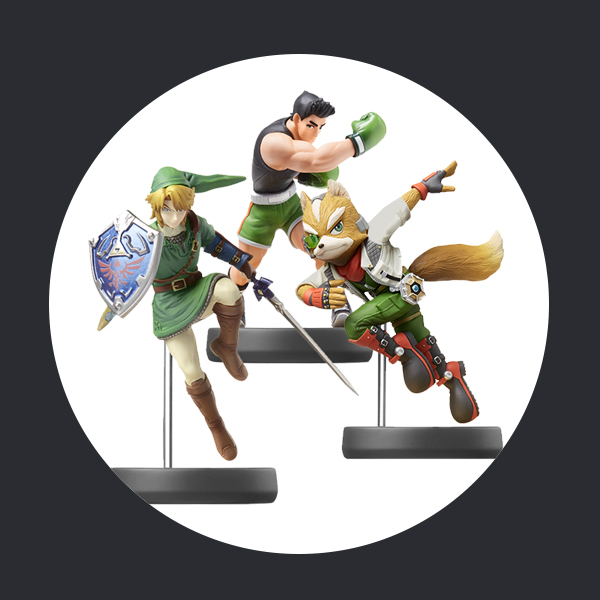
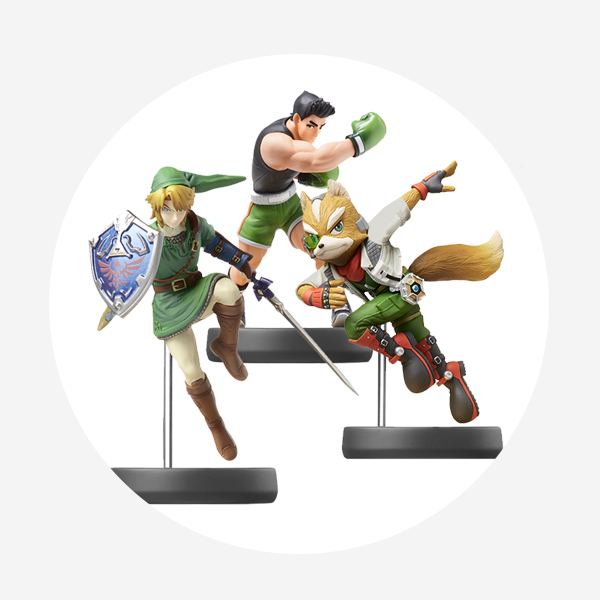
Formatted home page

diff --git a/app/assets/stylesheets/application.css b/app/assets/stylesheets/application.css
@@ -43,6 +43,7 @@ ul, ol {
 }
 a{
     outline: 0 !important;
+    text-decoration: none !important;
 }
 
 /* GENERAL GLOBAL
@@ -99,7 +100,10 @@ a{
     padding-bottom: 40px;
 }
 .addbottom60{
-    padding-bottom: 40px;
+    padding-bottom: 60px;
+}
+.addbottom120{
+    padding-bottom: 120px;
 }
 .push-down100{
     padding-top: 100px;
@@ -147,6 +151,12 @@ a{
     color: #fff;
 }
 
+.background-white {
+    background-color: white;
+}
+.background-gray {
+    background-color: #f4f4f4;
+}
 /**Fonts**/
 .main-title{
     padding-top: 20px;
@@ -189,7 +199,7 @@ a{
     font-size: 100px;
 }
 .navbar-inverse {
-    background-color: rgba(0,0,0,0.4);
+    background-color: rgba(21,30,40,0.5);
     /*background-color: rgba(153,153,153,1)*/
     /*background-color: transparent;*/
     border: transparent;
@@ -369,41 +379,30 @@ form button#header-search-submit {
 /* Featurettes for home page
 ----------------------------------------- */
 
-#explanations img{
+/*#explanations img{
     max-width: 100%;
-    float: left;
-}
+}*/
 
 .explanations {
     border-top: 1px solid rgba(1, 1, 1, 0.2);
     border-bottom: 1px solid rgba(1, 1, 1, 0.2);
-    background-color: white;
     font-size: 20px;
     text-align: left;
     vertical-align: middle;
 }
 
 #explanation {
-    padding-top: 150px;
+    padding:175px 0px 0px 20px;
 }
-
-#whale-term {
-    color: black;
+.explanations #explanation:nth-child(odd){
+    padding-left: 10%;
 }
-
-#pod-term {
-    background-color: #2A2C31;
-    color: white;
-}
-
-#trending-term {
-    color: black;
+.explanations #explanation:nth-child(even){
+    padding-right: 10%;
 }
 
 #sign-up-now {
-    background-color: white;
     text-align: center;
-    color: black;
 }
 
 
@@ -640,7 +639,7 @@ button:hover {
 }
 
 #footer{
-    background-color: rgba(0,0,0,0.75);
+    background-color: #151E28;
 }
 .back-to-top {
     font-size: 40px;
